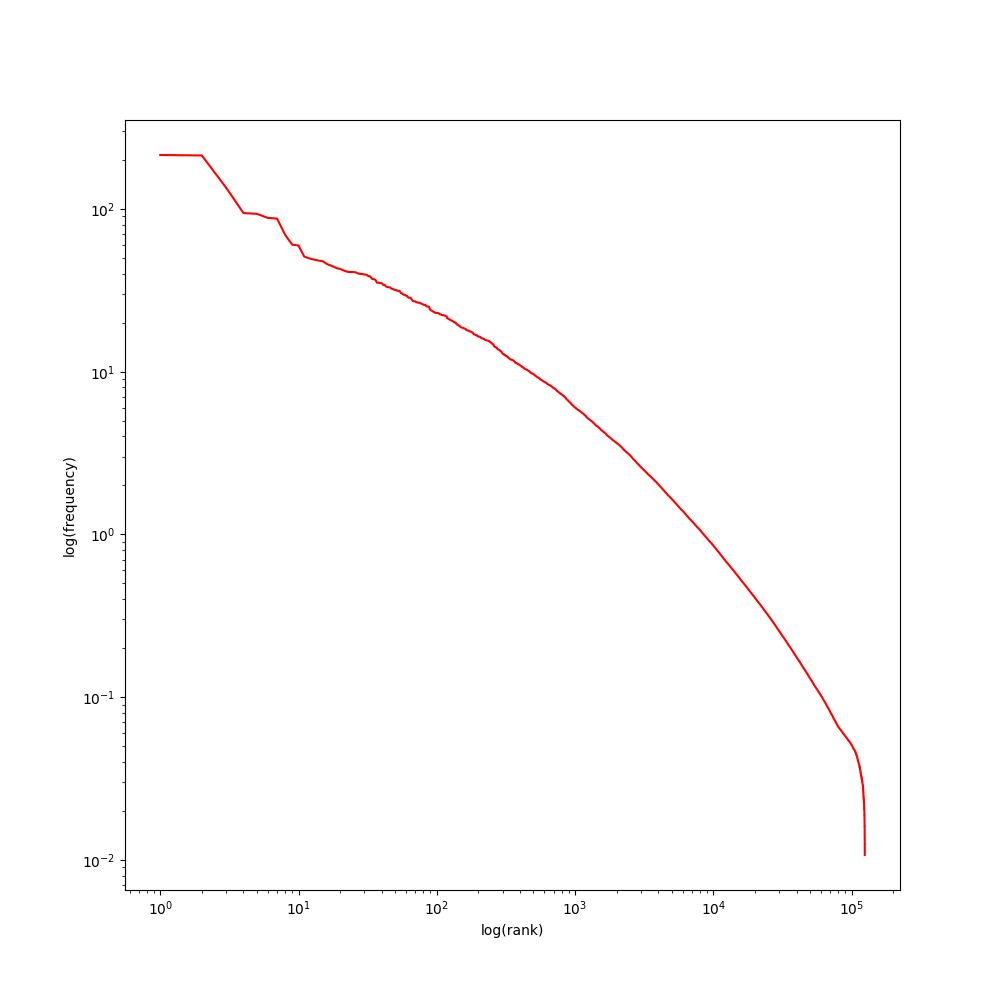
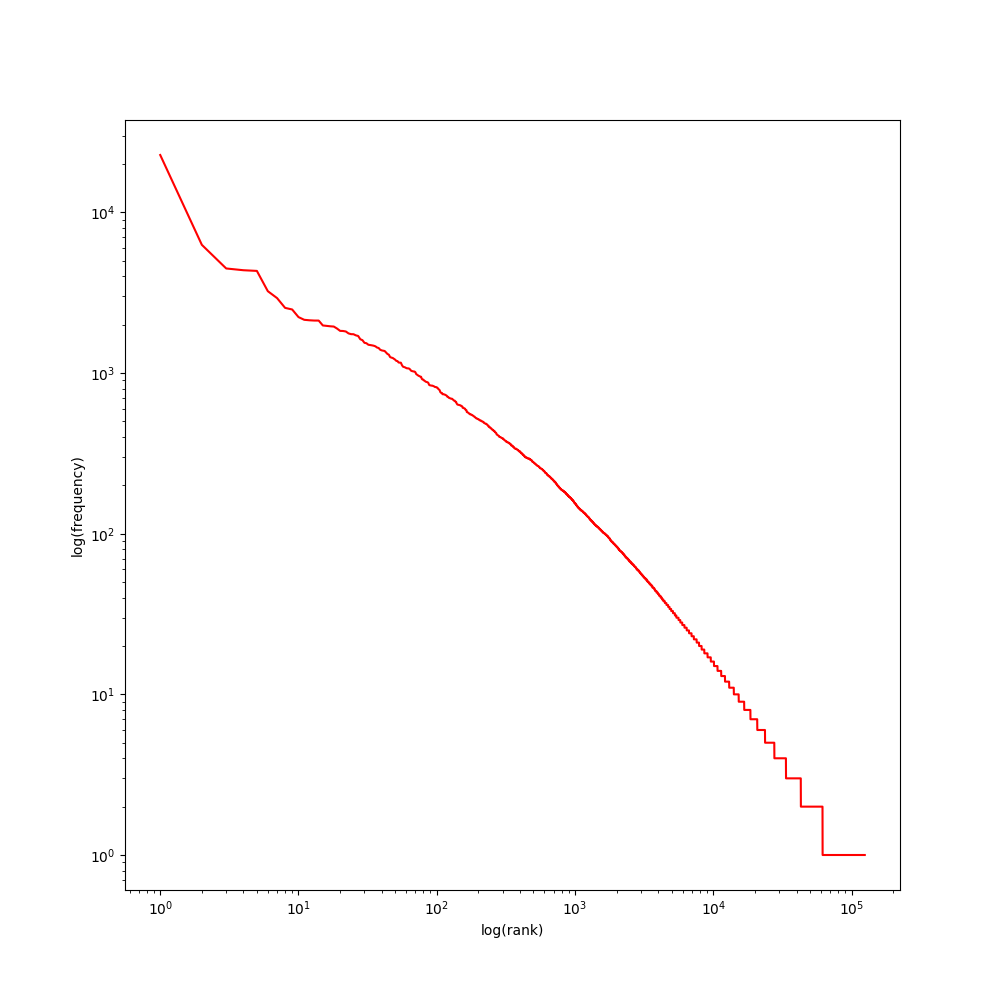
final version ?

diff --git a/project02.py b/project02.py
@@ -18,6 +18,19 @@ from nltk.util import pad_sequence, bigrams, ngrams, everygrams
 from nltk.lm.preprocessing import pad_both_ends, flatten
 from nltk.corpus import stopwords as STOPWORDS
 
+from gensim.models import Word2Vec
+
+import pickle
+import matplotlib.pyplot as plt
+import numpy as np
+import re
+from sklearn.feature_extraction.text import CountVectorizer, TfidfVectorizer
+from wordcloud import WordCloud
+from timeit import default_timer as Timer
+from nltk.tokenize import RegexpTokenizer
+
+tokenizer = RegexpTokenizer(r'\w+')
+
 def preprocess(docs):
     result = []
     for d in docs:
@@ -25,22 +38,52 @@ def preprocess(docs):
         result.append(a)
     return result
 
+def getTime(time):
+    temp = ""
+    if time > 3600:
+        hour = time // 3600
+        minutes = ( time - (hour*3600) ) // 60
+        seconds = time - (hour*3600 + minutes*60)
+        temp =  str(hour) + " hour(s) " + str(minutes) + " minute(s) " + str(seconds) + " seconds." 
+    elif time > 60:
+        minutes = time // 60
+        seconds = time - (minutes * 60)
+        temp = str(minutes) + " minute(s) " + str(seconds) + " seconds." 
+    else:
+        temp = str(time) + " seconds."
+    return temp
+
+def getTokenList(docs, deleteStopWords=True):
+    tokenList = []
+    stopWords = set(STOPWORDS.words('turkish'))
+    new_docs = preprocess(docs)
+    for d in new_docs:
+        tokenized_sentences = sent_tokenize(d, language="turkish")
+        for sent in tokenized_sentences:
+            for i in tokenizer.tokenize(sent): # language="turkish"):
+                if not i.isdigit():
+                    if deleteStopWords and i not in stopWords:
+                        tokenList.append(i.lower())
+                    elif not deleteStopWords:
+                        tokenList.append(i.lower())                
+    return tokenList
+
 def create_WordCloud(docs, dim_size, output_file_path, mode="TF", stopwords=True):
     stopWords = set(STOPWORDS.words('turkish'))
     processed_docs = preprocess(docs)
     if stopwords:
         if mode == "TF":
-            vectorizer = CountVectorizer(stop_words=None)
+            vectorizer = CountVectorizer(stop_words=stopWords)
         elif mode == "TFIDF":
-            vectorizer = TfidfVectorizer(stop_words=None)
+            vectorizer = TfidfVectorizer(stop_words=stopWords)
         else:
             print("Unknown mode.")
             return
     else:
         if mode == "TF":
-            vectorizer = CountVectorizer(stop_words=stopWords)
+            vectorizer = CountVectorizer(stop_words=None)
         elif mode == "TFIDF":
-            vectorizer = TfidfVectorizer(stop_words=stopWords)
+            vectorizer = TfidfVectorizer(stop_words=None)
         else:
             print("Unknown mode.")
             return
@@ -74,34 +117,27 @@ def create_WordCloud(docs, dim_size, output_file_path, mode="TF", stopwords=True
             stopwords=stopWords,
             min_font_size=10)
         wc.generate_from_frequencies(frequency)
-
+    
     plt.figure(figsize=(10, 10))
     plt.imshow(wc)
     plt.axis("off")
-    # plt.show()
+    # plt.show()
     wc.to_file(output_file_path)
     plt.clf()
 
-def create_ZiphsPlot(docs, output_file_path):
-    global frequency
-
-    if not bool(frequency):
-        tokens = []
-        for d in docs:
-            tokenized_sentences = sent_tokenize(d, language="turkish")
-            for sent in tokenized_sentences:
-                tokens += word_tokenize(sent, language="turkish")
-        
-        frequency = {}
-        for token in tokens:
-            if token in frequency.keys():
-                frequency[token] += 1
-            else:
-                frequency[token] = 1
+def create_ZiphsPlot(docs, output_file_path):    
+    tokens = getTokenList(docs)
+    frequency = {}
+    for token in tokens:
+        if token in frequency.keys():
+            frequency[token] += 1
+        else:
+            frequency[token] = 1
 
     sortedFrequencies = {k: v for k, v in reversed(sorted(frequency.items(), key=lambda item: item[1]))}
     
     freqs = [value for value in sortedFrequencies.values()]
+
     ranks = range(1,len(sortedFrequencies)+1)
     
     plt.loglog(ranks, freqs, label="Zipf's Law Graph", color="red")
@@ -115,38 +151,36 @@ def create_ZiphsPlot(docs, output_file_path):
     plt.xlabel("Rank")
     plt.ylabel("Frequency")
     # plt.show()
-    # plt.savefig(output_file_path)
+    plt.savefig(output_file_path[:len(output_file_path)-4] + "_normal.png")
     plt.clf()
 
 def create_HeapsPlot(docs, output_file_path):
-    tokens = []
-    for d in docs:
-        tokenized_sentences = sent_tokenize(d, language="turkish")
-        for sent in tokenized_sentences:
-            tokens += word_tokenize(sent, language="turkish")
-
+    tokens = getTokenList(docs, deleteStopWords=False)
+    
     corpus = set()
     length = []
     index = list(range(1,len(tokens)+1))
     for token in tokens:
         corpus.add(token)
         length.append(len(corpus))
-    
+
     plt.plot(index, length, label="Heap's Law Graph", color="red")
     plt.xlabel("Term Occurence")
     plt.ylabel("Vocabulary Size")
     plt.savefig(output_file_path)
-    # plt.plot(index, [i//8 for i in index], color="black")
-    # plt.show()
+    plt.plot(index, [i//8 for i in index], ":", color="black")
+    # plt.show()
     plt.clf()
 
 def create_LanguageModel(docs, model_type="MLE", ngram=3):
     global _ngram
     _ngram = ngram
     tokenized_text = []
-    for d in docs:
-        text = d
-        text = sent_tokenize(text, language="turkish" )
+    
+    new_docs = preprocess(docs)
+
+    for d in new_docs:
+        text = sent_tokenize(d, language="turkish" )
         for sent in text:
             temp = []
             for i in word_tokenize(sent, language="turkish"):
@@ -187,11 +221,74 @@ def generate_sentence(model, text):
 
         perp_list.append(model.perplexity(ngrams(content,_ngram)))
         sentence_list.append(detokenize(content))
-        # print("Done for ", i)
+    #     print("Done for ", i)
 
     # for i,j in zip(sentence_list, perp_list):
     #     print(i,j)
-    
+
     index = perp_list.index(min(perp_list))
     
     return (sentence_list[index], perp_list[index])
+
+def create_WordVectors(docs, dim, model, window_size):
+    if model == "cbow":
+        _sg = 0
+    elif model == "skipgram":
+        _sg = 1
+    else:
+        print("Unkown Model")
+        return None
+
+    new_docs = preprocess(docs)
+
+    tokenized_text = []
+    for d in new_docs:
+        text = sent_tokenize(d, language="turkish" )
+        for sent in text:
+            temp = []
+            for i in tokenizer.tokenize(sent,):
+                temp.append(i.lower())
+            tokenized_text.append(temp)
+
+    model = Word2Vec(tokenized_text, size=dim, window=window_size, sg=_sg)
+
+    return model
+
+def use_WordRelationship(model, tuple_list, tuple_test):
+    myList = []
+    for tpl in tuple_list:
+        try:
+            myList.append( model.wv[tpl[1]] - model.wv[tpl[0]] )
+        except KeyError:
+            # print("Error for: ", tpl[0], tpl[1])
+            text = ""
+    
+    if len(myList) == 0:
+        print("Sorry, this operation cannot be performed!")
+        return None
+    
+    avg = sum(myList) / len(myList)
+
+    try:
+        if ( bool( tuple_test[0]) ):
+            searchVec = model.wv[ tuple_test[0] ]
+            tempList = model.wv.similar_by_vector( searchVec + avg , topn=10)
+        elif (bool(tuple_test[1])):
+            searchVec = model.wv[ tuple_test[1] ]
+            tempList = model.wv.similar_by_vector( searchVec - avg , topn=10)
+        else:
+            print("Please enter a valid tuple to test.")
+            return None
+    except KeyError:
+        print("Sorry, this operation cannot be performed!")
+        return None
+
+    result = []
+    for i in range(len(tempList)):
+        if tempList[i][0] != tuple_test[0]:
+            result.append(tempList[i])
+        if len(result) == 5:
+            break
+    
+    print(result)
+    return result

diff --git a/main.py b/main.py
@@ -44,15 +44,15 @@ if __name__ == "__main__":
     print(sentence,perplexity)
 
 
-    # WE = project02.create_WordVectors(Docs,300,'cbow',5)
+    WE = project02.create_WordVectors(Docs,300,'cbow',5)
 
-    # example_tuple_list =[('fransa','paris'),
-    #                   ('almanya','berlin'),
-    #                   ('italya','roma'),
-    #                   ('ispanya','madrid'),
-    #                   ('hollanda','amsterdam'),
-    #                   ('ingiltere','londra'),
-    #                   ('türkiye','ankara')]
-    # example_tuple_test =('rusya','')
+    example_tuple_list =[('fransa','paris'),
+                      ('almanya','berlin'),
+                      ('italya','roma'),
+                      ('ispanya','madrid'),
+                      ('hollanda','amsterdam'),
+                      ('ingiltere','londra'),
+                      ('türkiye','ankara')]
+    example_tuple_test =('rusya','')
 
-    # project02.use_WordRelationship(WE,example_tuple_list,example_tuple_test)
+    project02.use_WordRelationship(WE,example_tuple_list,example_tuple_test)
